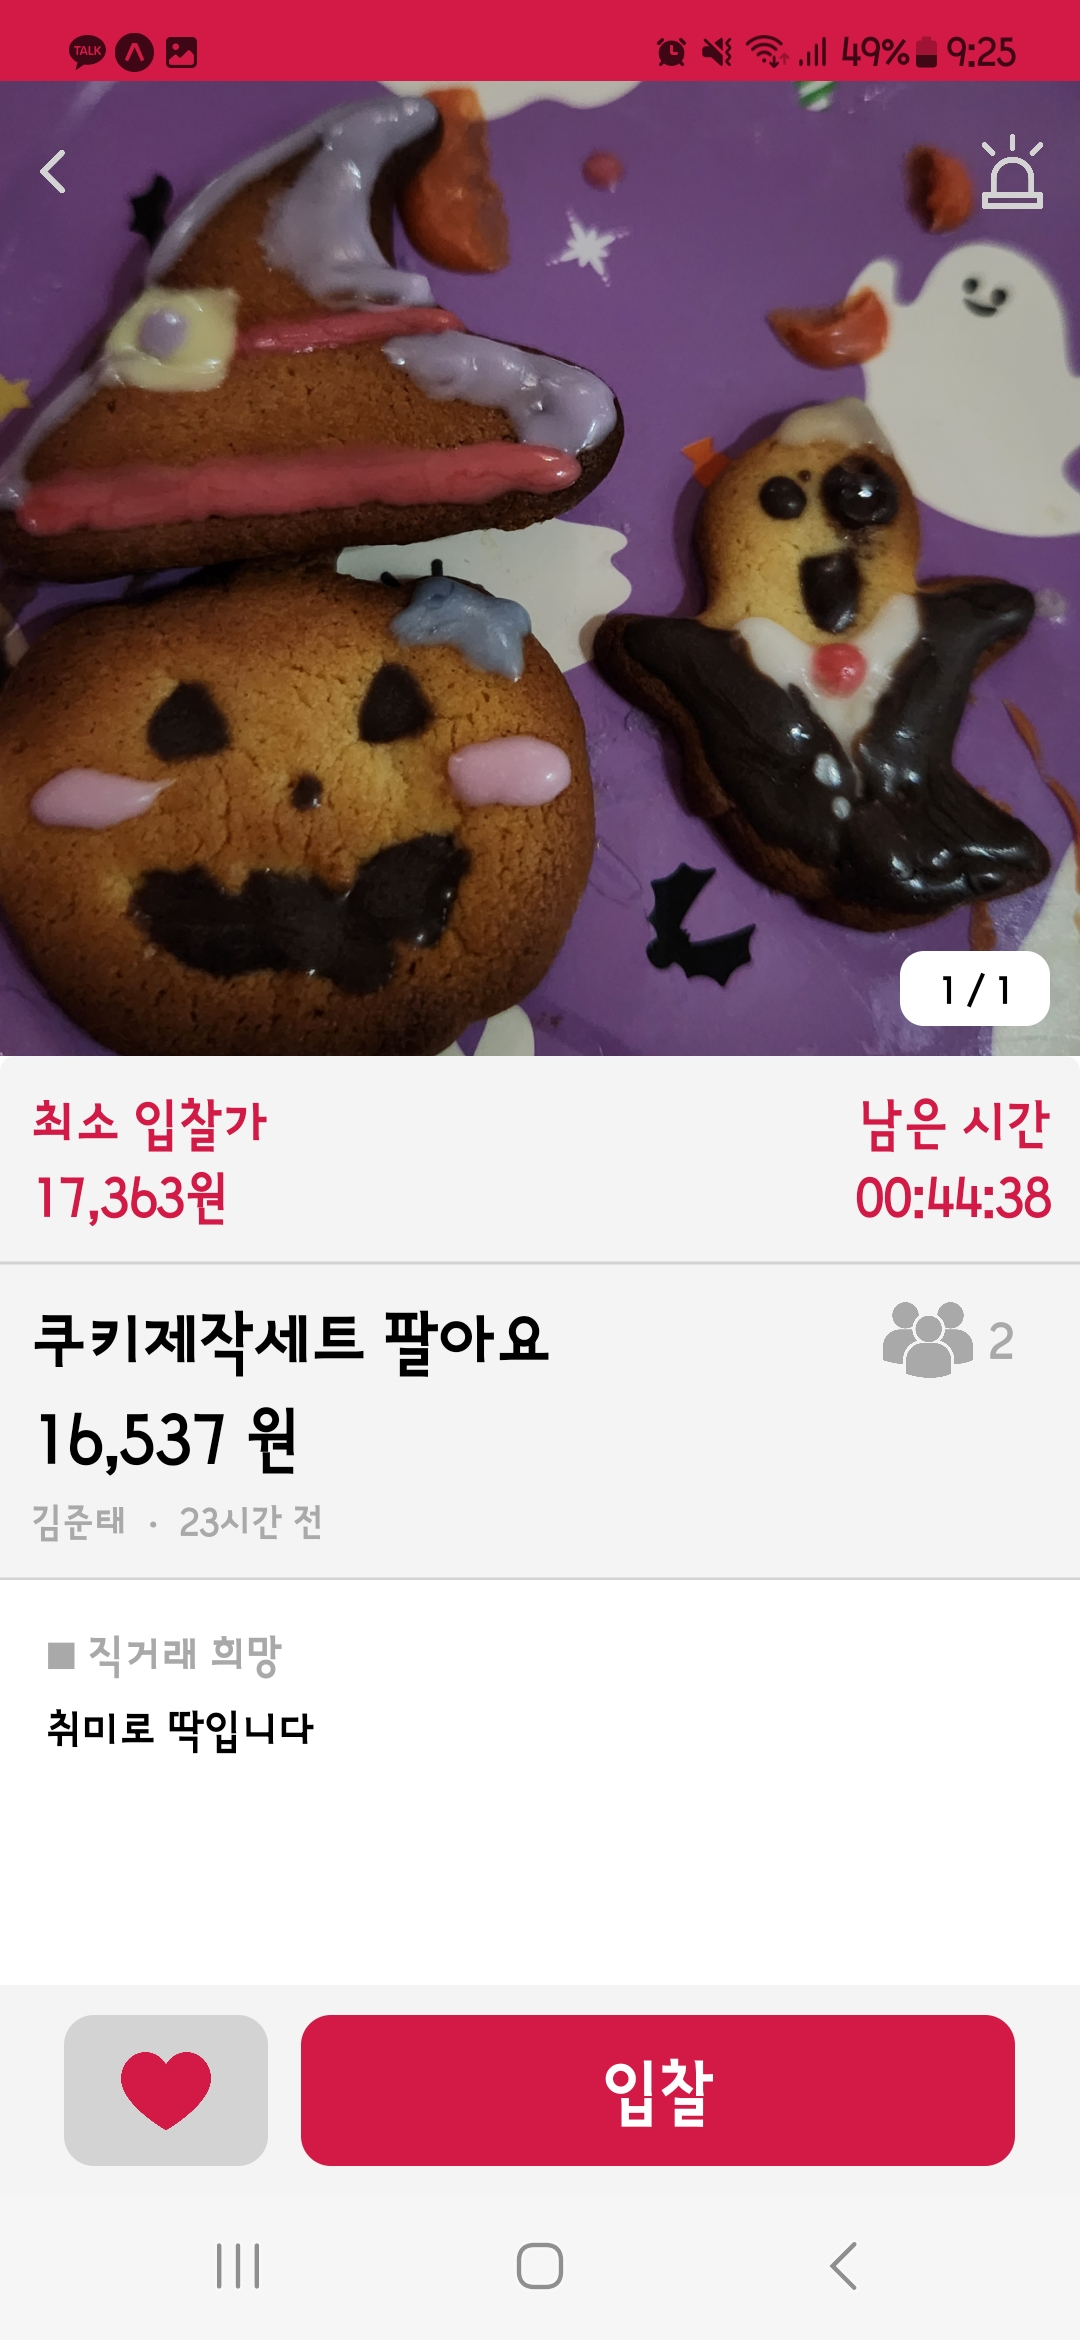
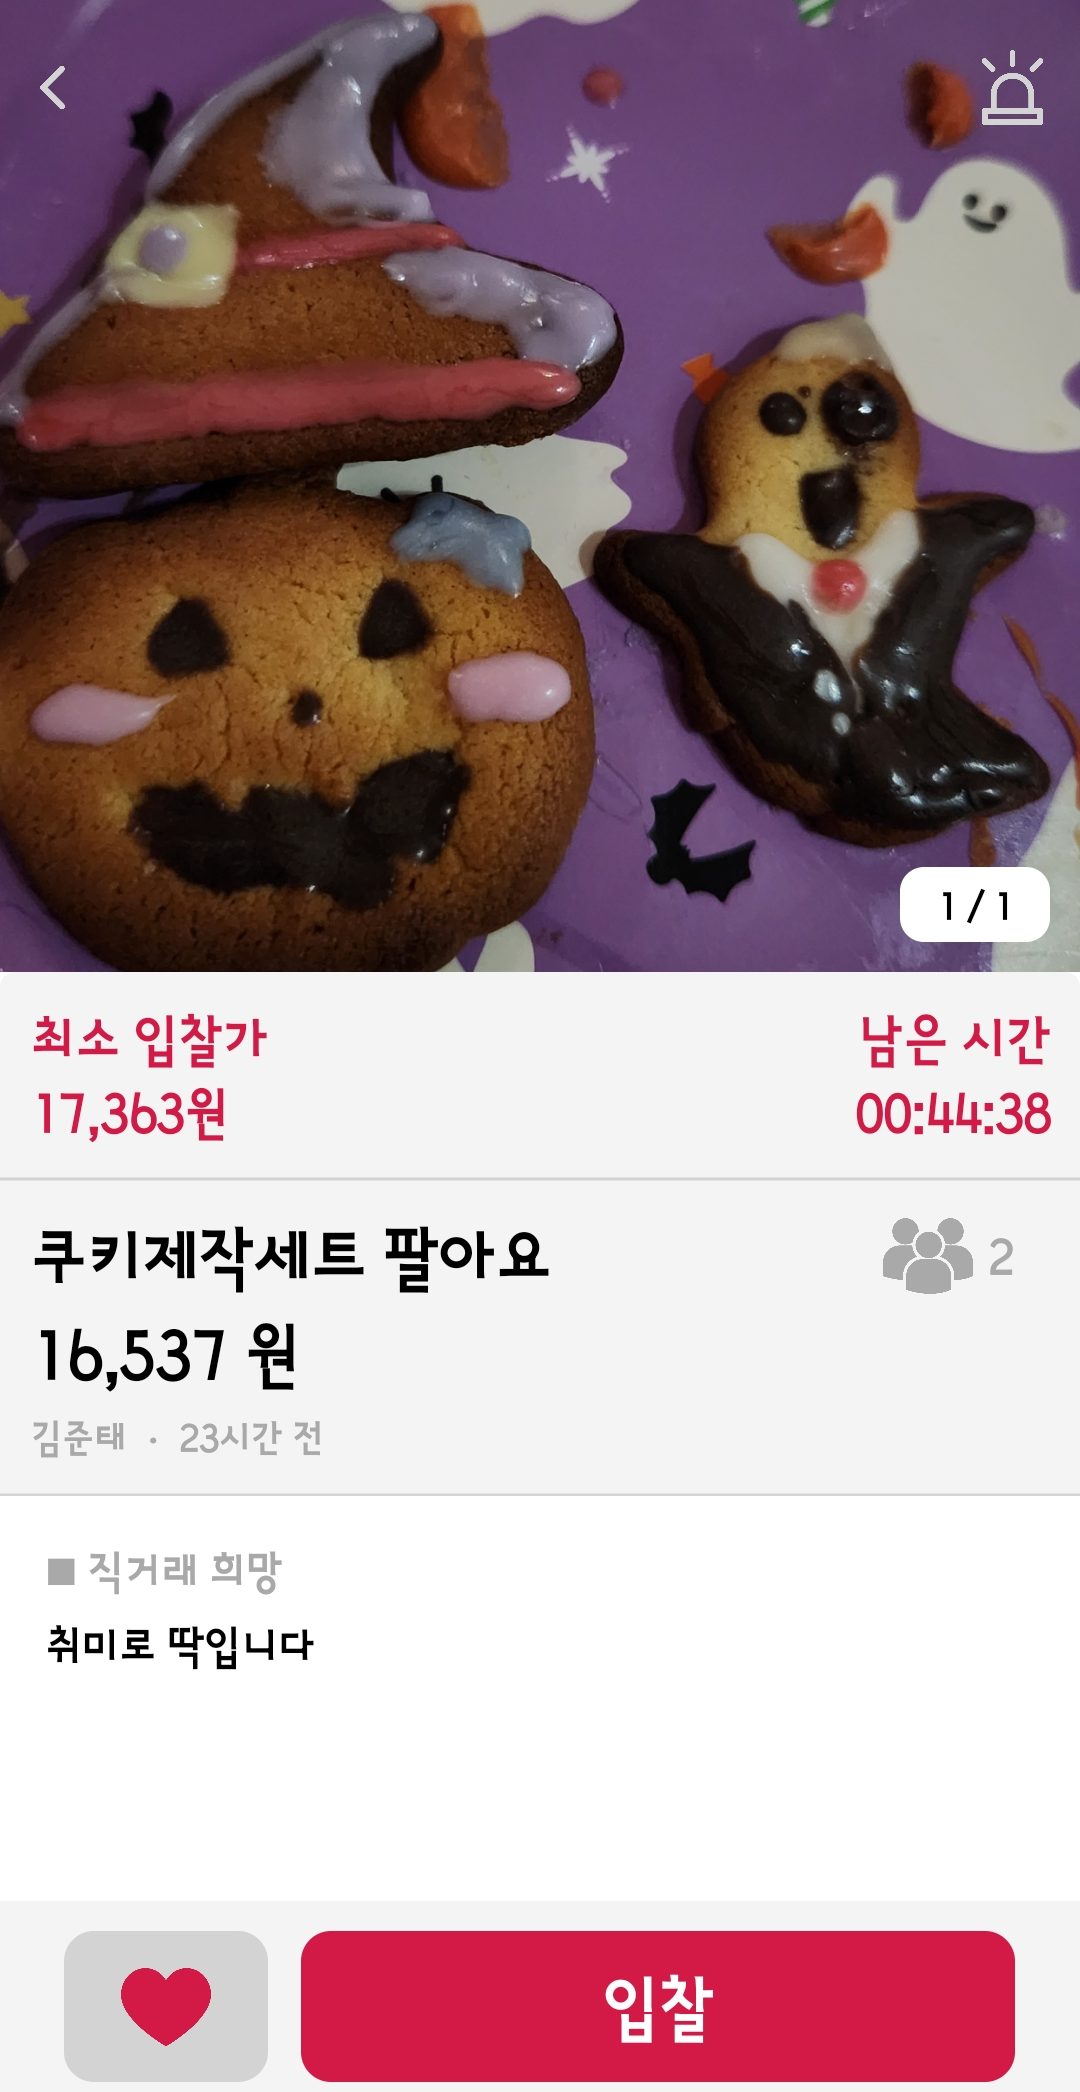
이미지 구겨짐 해결

diff --git a/assets/css/main.css b/assets/css/main.css
@@ -1320,12 +1320,20 @@ section,
 # Portfolio Details Section
 --------------------------------------------------------------*/
 .portfolio-details .portfolio-details-slider img {
-  width: 100%;
+  max-height: 500px;
+  height: auto;
+  width: auto;
+  max-width: 100%;
+  display: block;
+  margin-left: auto;
+  margin-right: auto;
+  object-fit: contain;
 }
 
 .portfolio-details .portfolio-details-slider .swiper-pagination {
   margin-top: 20px;
   position: relative;
+
 }
 
 .portfolio-details .portfolio-details-slider .swiper-pagination .swiper-pagination-bullet {
